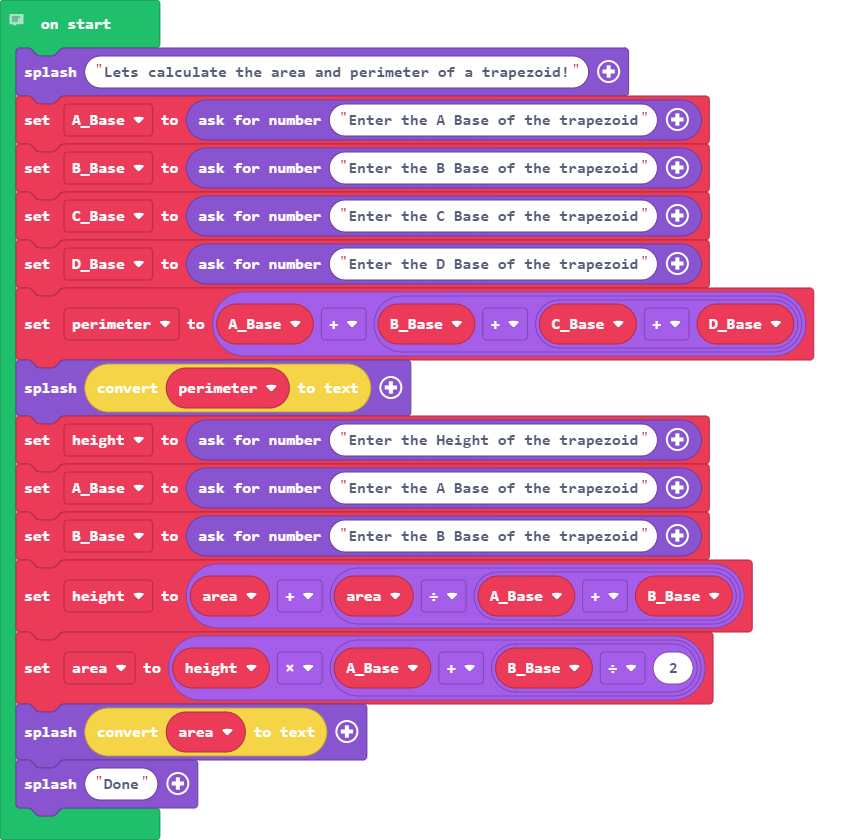
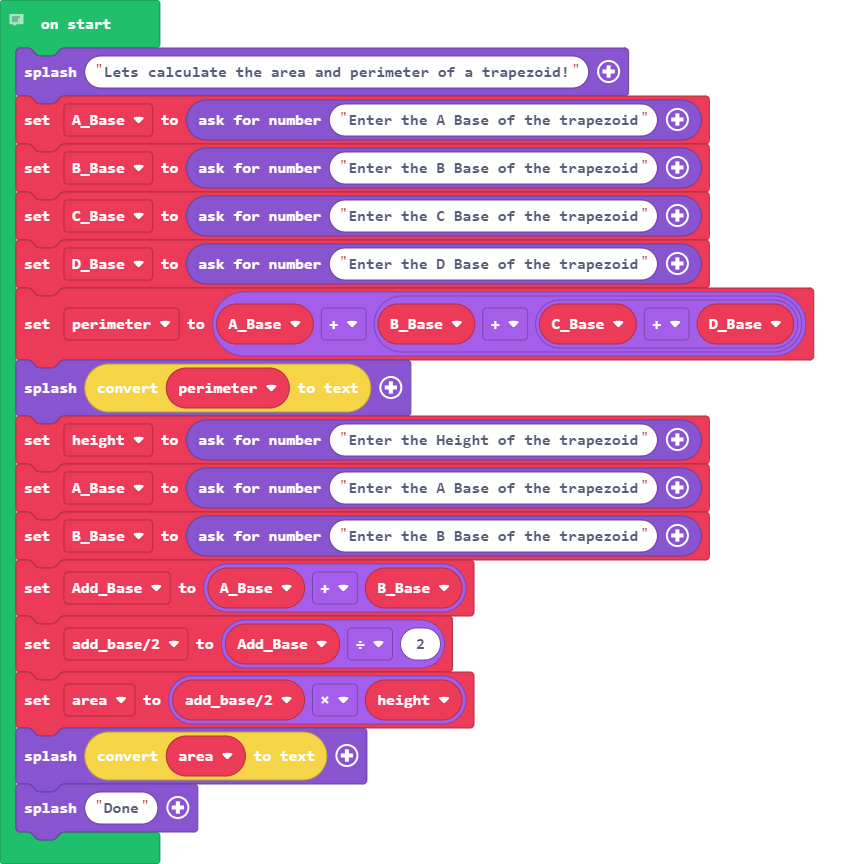
Added Variable

diff --git a/main.ts b/main.ts
@@ -1,7 +1,6 @@
 // Created by: Nina Mathew
 // Created on: 10/5/20
 // This program finds the area and perimeter of a trapezoid
-let area = 0
 game.splash("Lets calculate the area and perimeter of a trapezoid!")
 let A_Base = game.askForNumber("Enter the A Base of the trapezoid")
 let B_Base = game.askForNumber("Enter the B Base of the trapezoid")
@@ -12,7 +11,8 @@ game.splash(convertToText(perimeter))
 let height = game.askForNumber("Enter the Height of the trapezoid")
 A_Base = game.askForNumber("Enter the A Base of the trapezoid")
 B_Base = game.askForNumber("Enter the B Base of the trapezoid")
-height = area + area / (A_Base + B_Base)
-area = height * (A_Base + B_Base / 2)
+let Add_Base = A_Base + B_Base
+let add_base2 = Add_Base / 2
+let area = add_base2 * height
 game.splash(convertToText(area))
 game.splash("Done")
